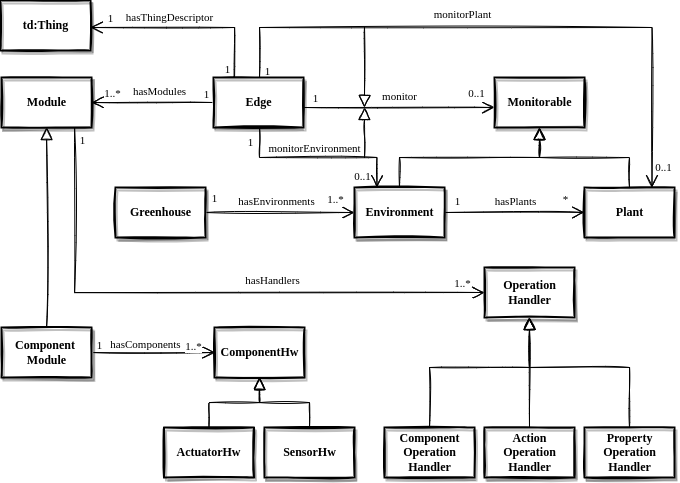
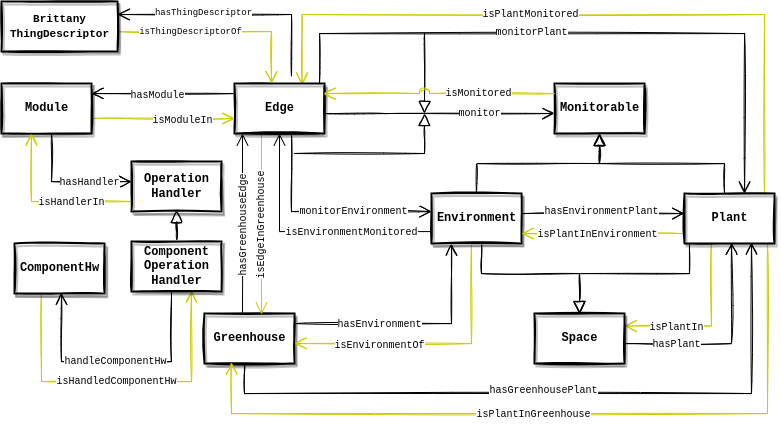
updated rdf graph, changed some elements in design, moved ul to domain

Changed region(s): [[0.0, 0.0, 1.0, 1.0]]

diff --git a/document/sections/design.tex b/document/sections/design.tex
@@ -1,104 +1,61 @@
 \section{Design}
 
-\subsection{Ubiquitous Language}
-Viene di seguito illustrato come è stato definito l’Ubiquitous Language utilizzato nel sistema.
-
-\noindent Viene riportato il solo sottoinsieme di componenti di interesse per il progetto RDF. Verranno riportati in questa relazione solo alcuni dei concetti significativi, in quanto RDF è la tecnologia più adatta a modellare e definire l'Ubiquitous Language, ed è quindi possibile approfondire visionando il documento \textit{brittany.ttl}. Tra parentesi viene riportato il nome in italiano.
-
-\begin{itemize}
-	\item \textbf{Greenhouse (Serra)}: Una struttura artificiale suddiviso in \textit{ambienti} costruita appositamente per coltivare \textit{piante}.
-	\item \textbf{Environment (Ambiente)}: Sezione di una \textit{serra} che contiene più \textit{piante}. Una \textit{serra} è composta da almeno un \textit{ambiente}.
-	\item \textbf{Plant (Pianta)}: Unità vegetale contenuta all’interno di un \textit{ambiente} della \textit{serra}.
-	\item \textbf{Edge (Edge)}: Una macchina elettronica che colleziona dati da \textit{sensori} e che può manipolare degli \textit{attuatori}. Un \textit{Edge} è composto da \textit{moduli}. Un \textit{Edge} può essere posizionato in un \textit{ambiente} o su una \textit{pianta}.
-	\item \textbf{Module (Module)}: Un componente logico che può essere aggiunto ad un \textit{Edge} ed è composto da più \textit{Operation Handler}.
-	\item \textbf{Operation Handler (Operation Handler)}: Un'operazione che utilizza degli argomenti per della computazione e ritorna un risultato.
-	\item \textbf{Hardware Component (Componente Hardware)}: Un Componente Hardware che può essere utilizzato da un Operation Handler.
-\end{itemize}
-
-\subsection{RDF e RDFS}
-
 \centeredImage{img/brittany-rdf-graph.png}{Diagramma sommario delle classi e delle proprietà (Struttura Principale)}{0.8}
 
 \noindent Il dominio è stato modellato utilizzando l'Ubiquitous Language appena illustrato. Sono stati inoltre ovviamente aggiunti elementi più di dettaglio e di basso livello, come le classi e le proprietà che fanno parte delle gerarchie "is a", più specifiche e per ora ancora mai nominate.
-\subsubsection{Concetti (Classi)}
+
+\noindent Questo grafico illustra solo le classi e le relazioni che fanno parte della struttura principale. In seguito vengono illustrate tutte le classi e tutte le proprietà. Le relazioni in giallo rappresentano le proprietà inverse di quelle in nero che hanno la freccia nel verso opposto.
+
+\subsection{Concetti (Classi)}
 Seguono gli identificatori delle classi create. Vengono riportate alcune note importanti. Dettagli più accurati ed approfonditi sono riportati nel file RDF \textit{brittany.ttl}:
 
-\paragraph{<\#Greenhouse>}
-Utilizzato per modellare il concetto di Serra.
-\paragraph{<\#Monitorable>}
-Utilizzato per modellare il concetto di un "qualcosa" che può essere controllato da una classe di tipo \textit{<\#Edge>}. \textit{<\#Environment>} e \textit{<\#Plant>} sono sottoclassi di questa classe.
-\paragraph{<\#Environment>}
-Utilizzato per modellare il concetto di Ambiente.
-\paragraph{<\#Plant>}
-Utilizzato per modellare il concetto di Pianta.
-\paragraph{<\#Edge>}
-Utilizzato per modellare il concetto di Edge.
-\paragraph{<\#Module>}
-Utilizzato per modellare il concetto di Modulo.
-\paragraph{<\#ComponentModule>}
-Si tratta di una specializzazione di \textit{<\#Module>} che agisce necessariamente su dei componenti hardware (\textit{<\#ComponentHw>}).
-\paragraph{<\#DigitalLightModule>}
-Una specializzazione di \textit{<\#ComponentModule>} che si occupa del sistema di illuminazione.
-\paragraph{<\#OperationHandler>}
-Utilizzato per modellare il concetto di Operation Handler.
-\paragraph{<\#ComponentOperationHandler>}
-Specializzazione di \textit{<\#OperationHandler>} che agisce necessariamente su dei componenti hardware (\textit{<\#ComponentHw>}).
-\paragraph{<\#ActionOperationHandler>}
-Specializzazione di \textit{<\#OperationHandler>} utilizzata per definire un'operazione che effettua un'azione.
-\paragraph{<\#PropertyOperationHandler>}
-Specializzazione di \textit{<\#OperationHandler>} utilizzata per definire un'operazione che ricava una proprietà.
-\paragraph{<\#DigitalLightHandler>}
-Specializzazione di \textit{<\#ComponentOperationHandler>} per definire operazioni legate al sistema di illuminazione.
-\paragraph{<\#IsOnDigitalLightHandler>}
-Specializzazione di \textit{<\#DigitalLightHandler>} e di \textit{<\#PropertyOperationHandler>}. L'operazione si occupa di verificare se un determinato componente che fa parte del sistema di illuminazione è acceso.
-\paragraph{<\#TurnOnDigitalLightHandler>}
-Specializzazione di \textit{<\#DigitalLightHandler>} e di \textit{<\#PropertyOperationHandler>}. L'operazione si occupa di accendere un determinato componente che fa parte del sistema di illuminazione.
-\paragraph{<\#TurnOffDigitalLightHandler>}
-Specializzazione di \textit{<\#DigitalLightHandler>} e di \textit{<\#PropertyOperationHandler>}. L'operazione si occupa di spegnere un determinato componente che fa parte del sistema di illuminazione.
-\paragraph{<\#ComponentHw>}
-Utilizzato per modellare il concetto di Componente Hardware.
-\paragraph{<\#SensorHw>}
-Specializzazione di \textit{<\#ComponentHw>}. Un componente che ricava dati dall'area circostante.
-\paragraph{<\#ActuatorHw>}
-Specializzazione di \textit{<\#ComponentHw>}. Un componente che agisce sull'area circostante.
-\paragraph{<\#DigitalLightHw>}
-Specializzazione di \textit{<\#ActuatorHw>}. Un attuatore che si occupa del sistema di illuminazione.
+\begin{itemize}
+	\item \textbf{<\#Greenhouse>}:Utilizzato per modellare il concetto di Serra.
+	\item \textbf{<\#Monitorable>}: Utilizzato per modellare il concetto di un "qualcosa" che può essere controllato da una classe di tipo \textit{<\#Edge>}. \textit{<\#Environment>} e \textit{<\#Plant>} sono sottoclassi di questa classe.
+	\item \textbf{<\#Environment>}: Utilizzato per modellare il concetto di Ambiente.
+	\item \textbf{<\#Plant>}: Utilizzato per modellare il concetto di Pianta.
+	\item \textbf{<\#Edge>}: Utilizzato per modellare il concetto di Edge.
+	\item \textbf{<\#Module>}: Utilizzato per modellare il concetto di Modulo.
+	\item \textbf{<\#ComponentModule>}: Si tratta di una specializzazione di \textit{<\#Module>} che agisce necessariamente su dei componenti hardware (\textit{<\#ComponentHw>}).
+	\item \textbf{<\#DigitalLightModule>}: Una specializzazione di \textit{<\#ComponentModule>} che si occupa del sistema di illuminazione.
+	\item \textbf{<\#OperationHandler>}
+	Utilizzato per modellare il concetto di Operation Handler.
+	\item \textbf{<\#ComponentOperationHandler>}: Specializzazione di \textit{<\#OperationHandler>} che agisce necessariamente su dei componenti hardware (\textit{<\#ComponentHw>}).
+	\item \textbf{<\#ActionOperationHandler>}
+	Specializzazione di \textit{<\#OperationHandler>} utilizzata per definire un'operazione che effettua un'azione.
+	\item \textbf{<\#PropertyOperationHandler>}: Specializzazione di \textit{<\#OperationHandler>} utilizzata per definire un'operazione che ricava una proprietà.
+	\item \textbf{<\#DigitalLightHandler>}: Specializzazione di \textit{<\#ComponentOperationHandler>} per definire operazioni legate al sistema di illuminazione.
+	\item \textbf{<\#IsOnDigitalLightHandler>}: Specializzazione di \textit{<\#DigitalLightHandler>} e di \textit{<\#PropertyOperationHandler>}. L'operazione si occupa di verificare se un determinato componente che fa parte del sistema di illuminazione è acceso.
+	\item \textbf{<\#TurnOnDigitalLightHandler>}: Specializzazione di \textit{<\#DigitalLightHandler>} e di \textit{<\#PropertyOperationHandler>}. L'operazione si occupa di accendere un determinato componente che fa parte del sistema di illuminazione.
+	\item \textbf{<\#TurnOffDigitalLightHandler>}: Specializzazione di \textit{<\#DigitalLightHandler>} e di \textit{<\#PropertyOperationHandler>}. L'operazione si occupa di spegnere un determinato componente che fa parte del sistema di illuminazione.
+	\item \textbf{<\#ComponentHw>}: Utilizzato per modellare il concetto di Componente Hardware.
+	\item \textbf{<\#SensorHw>}: Specializzazione di \textit{<\#ComponentHw>}. Un componente che ricava dati dall'area circostante.
+	\item \textbf{<\#ActuatorHw>}: Specializzazione di \textit{<\#ComponentHw>}. Un componente che agisce sull'area circostante.
+	\item \textbf{<\#DigitalLightHw>}: Specializzazione di \textit{<\#ActuatorHw>}. Un attuatore che si occupa del sistema di illuminazione.
+\end{itemize}
 
-\subsubsection{Relazioni (Proprietà)}
+\subsection{Relazioni (Proprietà)}
 Seguono gli identificatori delle proprietà create. Vengono riportate alcune note importanti. Dettagli più accurati ed approfonditi sono riportati nel file RDF \textit{brittany.ttl}:
 
-\paragraph{<\#hasEnvironments>}
-Proprietà utilizzata per modellare il fatto che esistono più \textit{<\#Environment>} (almeno uno) all'interno di un \textit{<\#Greenhouse>}.
-\paragraph{<\#hasPlants>}
-Proprietà utilizzata per modellare il fatto che esistono più \textit{<\#Plant>} all'interno di un \textit{<\#Environment>}.
-\paragraph{<\#monitor>}
-Proprietà utilizzata per modellare il fatto che un \textit{<\#Edge>} può essere posto in un qualsiasi \textit{<\#Monitorable>}.
-\paragraph{<\#monitorPlant>}
-Specializzazione di \textit{<\#monitor>} dedicata al monitor di un \textit{<\#Plant>}.
-\paragraph{<\#monitorEnvironment>}
-Specializzazione di \textit{<\#monitor>} dedicata al monitor di una \textit{<\#Environment>}.
-\paragraph{<\#hasComponents>}
-Proprietà utilizzata per modellare il fatto che esistono più \textit{<\#ComponentHw>} (almeno uno) all'interno di un \textit{<\#ComponentModule>}.
-\paragraph{<\#hasModules>}
-Proprietà utilizzata per modellare il fatto che esistono più \textit{<\#Module>} (almeno uno) all'interno di un \textit{<\#Edge>}.
-\paragraph{<\#edgeName>}
-Specializzazione di \textit{foaf:name} utilizzata per dare un nome ad un \textit{<\#Edge>}.
-\paragraph{<\#moduleName>}
-Specializzazione di \textit{foaf:name} utilizzata per dare un nome ad un \textit{<\#Module>}.
-\paragraph{<\#handlerName>}
-Specializzazione di \textit{foaf:name} utilizzata per dare un nome ad un \textit{<\#Handler>}.
-\paragraph{<\#componentName>}
-Specializzazione di \textit{foaf:name} utilizzata per dare un nome ad un \textit{<\#ComponentHw>}.
-\paragraph{<\#hasHandlers>}
-Proprietà utilizzata per modellare il fatto che esistono più \textit{<\#OperationHandler>} (almeno uno) all'interno di un \textit{<\#Module>}.
-\paragraph{<\#hasHandlerOutputType>}
-Proprietà utilizzata per definire il tipo di output fornito da un \textit{<\#OperationHandler>}.
-\paragraph{<\#hasHandlerInputSchema>}
-Proprietà utilizzata per definire quali tipi di dati possono essere forniti in input ad un \textit{<\#OperationHandler>}.
-\paragraph{<\#hasThingDescriptor>}
-Proprietà utilizzata per legare un \textit{<\#Edge>} al suo Thing Descriptor (\textit{td:Thing}).
+\begin{itemize}
+	\item \textbf{<\#hasEnvironments>}: Proprietà utilizzata per modellare il fatto che esistono più \textit{<\#Environment>} (almeno uno) all'interno di un \textit{<\#Greenhouse>}.
+	\item \textbf{<\#hasPlants>}: Proprietà utilizzata per modellare il fatto che esistono più \textit{<\#Plant>} all'interno di un \textit{<\#Environment>}.
+	\item \textbf{<\#monitor>}: Proprietà utilizzata per modellare il fatto che un \textit{<\#Edge>} può essere posto in un qualsiasi \textit{<\#Monitorable>}.
+	\item \textbf{<\#monitorPlant>}: Specializzazione di \textit{<\#monitor>} dedicata al monitor di un \textit{<\#Plant>}.
+	\item \textbf{<\#monitorEnvironment>}: Specializzazione di \textit{<\#monitor>} dedicata al monitor di una \textit{<\#Environment>}.
+	\item \textbf{<\#hasComponents>}: Proprietà utilizzata per modellare il fatto che esistono più \textit{<\#ComponentHw>} (almeno uno) all'interno di un \textit{<\#ComponentModule>}.
+	\item \textbf{<\#hasModules>}: Proprietà utilizzata per modellare il fatto che esistono più \textit{<\#Module>} (almeno uno) all'interno di un \textit{<\#Edge>}.
+	\item \textbf{<\#edgeName>}: Specializzazione di \textit{foaf:name} utilizzata per dare un nome ad un \textit{<\#Edge>}.
+	\item \textbf{<\#moduleName>}: Specializzazione di \textit{foaf:name} utilizzata per dare un nome ad un \textit{<\#Module>}.
+	\item \textbf{<\#handlerName>}: Specializzazione di \textit{foaf:name} utilizzata per dare un nome ad un \textit{<\#Handler>}.
+	\item \textbf{<\#componentName>}: Specializzazione di \textit{foaf:name} utilizzata per dare un nome ad un \textit{<\#ComponentHw>}.
+	\item \textbf{<\#hasHandlers>}: Proprietà utilizzata per modellare il fatto che esistono più \textit{<\#OperationHandler>} (almeno uno) all'interno di un \textit{<\#Module>}.
+	\item \textbf{<\#hasHandlerOutputType>}: Proprietà utilizzata per definire il tipo di output fornito da un \textit{<\#OperationHandler>}.
+	\item \textbf{<\#hasHandlerInputSchema>}: Proprietà utilizzata per definire quali tipi di dati possono essere forniti in input ad un \textit{<\#OperationHandler>}.
+	\item \textbf{<\#hasThingDescriptor>}: Proprietà utilizzata per legare un \textit{<\#Edge>} al suo Thing Descriptor (\textit{td:Thing}).
+\end{itemize}
 
-\subsubsection{Individui}
+\subsection{Individui}
 Sono stati realizzati degli individui di esempio.
 
 \noindent Nella serra che è stata creata (\textit{<\#angelo-greenhouse>}) è presente un solo ambiente (\textit{<\#angelo-environment>}) che contiene a sua volta una sola pianta (\textit{<\#angelo-basil>}).

diff --git a/document/sections/domain.tex b/document/sections/domain.tex
@@ -26,3 +26,18 @@ Greenhouse core deve necessariamente essere collocato nella stessa rete LAN in c
 Anche i parametri di configurazione di cui si occupa "Settings Service" sarebbero stati interessanti, ma sono già stati modellati accuratamente utilizzando altre tecnologie e sono stati quindi per ora esclusi.
 
 \centeredImage{img/represent.png}{Parte del sistema "Brittany" presa in considerazione per il progetto corrente}{0.7}
+
+\subsection{Ubiquitous Language}
+Viene di seguito illustrato come è stato definito l’Ubiquitous Language utilizzato nel sistema.
+
+\noindent Viene riportato il solo sottoinsieme di componenti di interesse per il progetto RDF. Verranno riportati in questa relazione solo alcuni dei concetti significativi, in quanto RDF è la tecnologia più adatta a modellare e definire l'Ubiquitous Language, ed è quindi possibile approfondire visionando il documento \textit{brittany.ttl}. Tra parentesi viene riportato il nome in italiano.
+
+\begin{itemize}
+	\item \textbf{Greenhouse (Serra)}: Una struttura artificiale suddiviso in \textit{ambienti} costruita appositamente per coltivare \textit{piante}.
+	\item \textbf{Environment (Ambiente)}: Sezione di una \textit{serra} che contiene più \textit{piante}. Una \textit{serra} è composta da almeno un \textit{ambiente}.
+	\item \textbf{Plant (Pianta)}: Unità vegetale contenuta all’interno di un \textit{ambiente} della \textit{serra}.
+	\item \textbf{Edge (Edge)}: Una macchina elettronica che colleziona dati da \textit{sensori} e che può manipolare degli \textit{attuatori}. Un \textit{Edge} è composto da \textit{moduli}. Un \textit{Edge} può essere posizionato in un \textit{ambiente} o su una \textit{pianta}.
+	\item \textbf{Module (Module)}: Un componente logico che può essere aggiunto ad un \textit{Edge} ed è composto da più \textit{Operation Handler}.
+	\item \textbf{Operation Handler (Operation Handler)}: Un'operazione che utilizza degli argomenti per della computazione e ritorna un risultato.
+	\item \textbf{Hardware Component (Componente Hardware)}: Un Componente Hardware che può essere utilizzato da un Operation Handler.
+\end{itemize}

diff --git a/document/sections/req.tex b/document/sections/req.tex
@@ -25,4 +25,9 @@ I requisiti non funzionali riguardano le funzionalità che il sistema non deve n
 
 I requisiti di implementazione vincolano l’intera fase di realizzazione del sistema, ad esempio richiedendo l’uso di uno specifico linguaggio di programmazione e/o di uno specifico tool software.
 
-\noindent Per lo sviluppo di questo progetto si è vincolati ad utilizzare le tecnologie \textbf{RDF} e \textbf{RDF Schema}.
+\noindent Per lo sviluppo di questo progetto si è vincolati ad utilizzare le tecnologie:
+\begin{itemize}
+	\item \textbf{RDF}, \textbf{RDF Schema} e \textbf{OWL}: per la modellazione del dominio;
+	\item \textbf{SPARQL}: per l'interrogazione dell'ontologia creata;
+	\item \textbf{SWRL}: per esprimere regole di logica aggiuntive.
+\end{itemize}

diff --git a/document/title.tex b/document/title.tex
@@ -8,7 +8,7 @@
     \end{center}
     \vspace{2mm}
     \begin{center}
-        {\LARGE{\bf{----------------- Assignment 2 -----------------}}}
+        {\LARGE{\bf{----------------- Assignment 3 -----------------}}}
         \vspace{5mm} \par \noindent
         {\Huge{\bf{Brittany RDF}}}
         \vspace{10mm} \par \noindent
